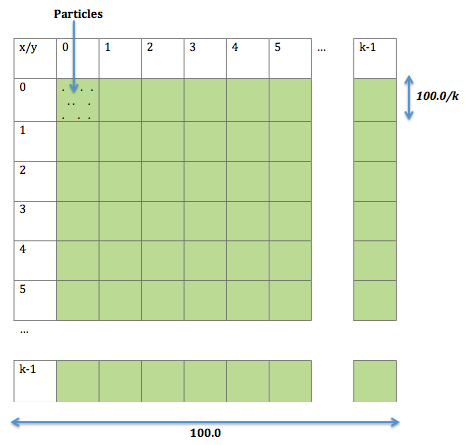
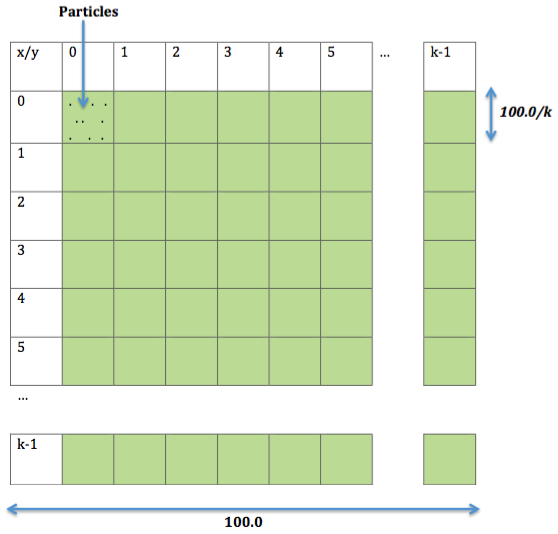
new release download.html updated

diff --git a/content/exercises/particle.html b/content/exercises/particle.html
@@ -8,7 +8,59 @@ downloadc: download
 toolsc: tools 
 helpc: help
 ---
-  <link rel="stylesheet" type="text/css" href="TutorialStyle.css">
+  <link rel="stylesheet" type="text/css" href="../../tutorial/TutorialStyle.css">
 
 <h1>Chare Arrays: Particle Exercise</h1>
+  
+	<!-- Figure -->
+  <table class="StandardFigure" align=right border=0>
+   <tr><td align=center valign=middle>
+    <a href="../images/particlescode.png">
+     <img class="StandardFigure" src="../images/particlescode.png" border=0 width=375>
+    </a>
+   </td></tr>
+   <tr><td align=center valign=middle>
+    <b>Figure 1</b>
+   </td></tr>
+  </table>
+	
+<h2>Random Migrating Particles</h2>
 
+<p>For this exercise, you will write code that simulates a set of particles moving
+	randomly in a 2-dimensional space within a bounding box. The coordinates of the
+	overall simulation box are between 0.0 and 100.0 along each dimension. The particles
+	are divided among chares based on their coordinates. The chares should be organized
+	in a 2-dimensional array of chares (using a chare array) of size <span lang="latex">k \times k</span>. So, each
+	chare owns a bounding box of its own with size <span lang="latex">100.0/k</span>. The particles in each chare
+	can be stored as a vector.</p>
+	
+<p>Your program should generate <i>n</i> particles per chare during construction with a
+		random (but valid, i.e. within the chare) position for particles. Your program
+		should accept the number of particles per cell <i>n</i>, and <i>k</i> as command line parameters
+		in that sequence.</p>
+		
+<p><u>Expected Output</u>: Your program should calculate and print to screen the maximum and
+	total number of particles every 10 iterations. Additionally, the simulation should
+	not be delayed by this calculation (i.e. you should use reductions).</p>
+
+<p>For testing your program, you can use 10000 (=<i>n</i>) particles per chare, simulated over 100 steps
+	and a chare array of size <span lang="latex">16 \times 16</span> (<i>k</i>=16).  Experiment with different number of particles and
+	chare array sizes.</p>
+
+<p><u>Note</u>: There might be multiple particles having the same <i>x</i> and <i>y</i> coordinates, especially
+	if you increase the density of each cell. You do not need to handle this case separately;
+	it is a valid case assumption.</p>
+
+<ul>
+	<li>The pseudocode for the overall algorithm is:</li>
+	<code>for(iteration=0; iteration&lt;ITERATION; iteration++){</code>
+		<ul>
+			<li>For each of the particles that belong to my chare: change its <i>x</i> and <i>y</i> coordinate by a small random amount.</li>
+			<li>Move all the particles that do not belong to a chare's bounding box to their correct homes. Since the movement is small, this will mean communication to the eight near neighbor chares. Some of these messages may contain no particles.</li>
+			<li><code>if(iteration%10 == 0)</code></li>
+			<ul>
+				<li>Do reductions to calculate average and max number of particles</li>
+			</ul>
+		</ul>
+	<code>}</code>
+</ul>

diff --git a/content/exercises/arraysdesign.html b/content/exercises/arraysdesign.html
@@ -8,7 +8,44 @@ downloadc: download
 toolsc: tools 
 helpc: help
 ---
-  <link rel="stylesheet" type="text/css" href="TutorialStyle.css">
+  <link rel="stylesheet" type="text/css" href="../../tutorial/TutorialStyle.css">
 
 <h1>Chare Arrays: Design Exercise</h1>
 
+<h2> Data Balancing:</h2>
+
+<!--\comment{
+I have a design problem for you. I want you to run your solution by me
+(.ci file and pseudocode, for example) before implementing it. Or even
+just the idea for the algorithm:
+} -->
+<p>Assume you have a 1D chare array
+A. Each chare (say A[i]) in it holds a vector of numbers. The size of
+this vector is different on different chares (say <i>size<sub>i</sub></i> on
+A[i]). Your task is to equalize the load on all processors by
+exchanging the numbers. It is not necessary to do minimal data
+movement, but it is desirable. The balance at the end needs to be
+almost exact. If there are a total of N numbers, and v chares, there
+should be between floor (N/v): ceil(N/v) items on each chare. Note
+that the only way to send information to another chare is by sending
+an (entry) method invocation to it.</p>
+
+<p>There are many distinct algorithms possible. Sketch the
+alternatives without coding them, and write cost estimates for them. 
+Keep in mind that the simplest (i.e. approximate) cost model in
+Charm++: entry methods invocation's cost  <i><span lang="latex">\alpha + n . {\beta}</span></i>, where
+<i>&alpha;</i> is a fixed cost, and <i>&beta;</i> is a per-byte cost. For the sake of
+intuition, you may assume <i>&alpha;</i> is about a thousand times larger than
+<i>&beta;</i>, say a microsecond vs a nanosecond. 
+Reductions and broadcasts of size <i>N</i> data on <i>P</i> processors cost <i><span lang="latex">\alpha log (P) +
+N \beta</i>.
+Keep in mind that many
+(but not all)
+of the algorithms for this problem have two phases: first phase to identify who
+should send how many numbers to whom, and second to actually do the
+data exchange. Make sure to write your time estimates for both phases.
+Compare two of the interesting algorithms in terms of cost, performance
+tradeoffs if any (e.g. is each algorithm better in different
+scenarios), scalability and coding complexity. 
+By scalability, here, we mean how well the algorithm behaves with a
+large number of chares and/or a large number of physical processors.</p>

diff --git a/content/exercises/oddevensort.html b/content/exercises/oddevensort.html
@@ -8,7 +8,10 @@ downloadc: download
 toolsc: tools 
 helpc: help
 ---
-  <link rel="stylesheet" type="text/css" href="TutorialStyle.css">
+  <link rel="stylesheet" type="text/css" href="../../tutorial/TutorialStyle.css">
 
 <h1>Chare Arrays: Odd-Even Sort Exercise</h1>
 
+<p>A mainchare has a chare array of size N. Each chare in the array generates its own random number. The array must be sorted in N steps, where at each step, each chare may communicate with at most one of its neighbors (i.e. on an 'odd' step adjacent chares are paired in one fashion, and on an 'even' step the pairing is switched). No barriers are allowed, and there is only one reduction, at the end, which checks that the elements have been properly sorted.</p>
+ 
+<p>N is a command line parameter.</p>

diff --git a/content/exercises.html b/content/exercises.html
@@ -8,6 +8,7 @@ downloadc: download
 toolsc: tools 
 helpc: help
 ---
+  <link rel="stylesheet" type="text/css" href="../tutorial/TutorialStyle.css">
 <body>
 <div id="container">
 	
@@ -29,13 +30,13 @@ helpc: help
 		<ol>
 			<li>Data balancing</li>
 				<ol>
-					<li>Design exercise</li>
+					<li><a href="arraysdesign">Design exercise</a></li>
 					<li>Method 1</li>
 					<li>Method 2</li>
 					<li>Method 3</li>
 				</ol>
-			<li>Odd-even sort</li>
-			<li>Particle exercise</li>
+			<li><a href="oddevensort">Odd-even sort</a></li>
+			<li><a href="particle">Particle exercise</a></li>
 		</ol>
 	<li><h2>Load Balancing</h2></li>
 		<ol>

diff --git a/layouts/homepage.html b/layouts/homepage.html
@@ -21,7 +21,9 @@
     <link href="http://charm.cs.illinois.edu/codemirror/theme/lesser-dark.css" rel="stylesheet" type="text/css"/>
     <script src="/assets/prettify.js" type="text/javascript"></script>
     <script src="https://maxcdn.bootstrapcdn.com/bootstrap/3.2.0/js/bootstrap.min.js"></script>
-
+		<!-- for equations from LaTeX to appear correctly-->
+		<script type="text/javascript" src="http://latex.codecogs.com/latexit.js"></script>
+		
     <!-- you don't need to keep this, but it's cool for stats! -->
     <meta name="generator" content="nanoc <%= Nanoc::VERSION %>"> 
   </head>

diff --git a/content/download.html b/content/download.html
@@ -13,7 +13,7 @@ helpc: help
   <h1>Downloads</h1>
   <h2 id='charm_source'>Charm++</h2>
   
-  <p>Latest release version: <a href="http://charm.cs.illinois.edu/distrib/charm-6.7.1.tar.gz">Charm++ v6.7.1 (tar.gz)</a></p>
+  <p>Latest release version: <a href="https://charm.cs.illinois.edu/distrib/charm-6.8.0.tar.bz2">Charm++ v6.8.0 (tar.gz)</a></p>
   <p>Latest dev version: <a href="http://charm.cs.illinois.edu/autobuild/cur/charm_src.tar.gz">Nightly Snapshot (tar.gz)</a></p>
   
   <p>The latest development version of Charm++ can be downloaded directly from our

diff --git a/layouts/default.html b/layouts/default.html
@@ -21,7 +21,9 @@
 		<script src="/assets/prettify.js" type="text/javascript">
 		</script>
 		<script src="https://maxcdn.bootstrapcdn.com/bootstrap/3.2.0/js/bootstrap.min.js"></script>
-
+		<!-- for equations from LaTeX to appear correctly-->
+		<script type="text/javascript" src="http://latex.codecogs.com/latexit.js"></script>
+		
     <!-- you don't need to keep this, but it's cool for stats! -->
     <meta name="generator" content="nanoc <%= Nanoc::VERSION %>"> 
   </head>

diff --git a/content/exercises/primality.html b/content/exercises/primality.html
@@ -8,7 +8,7 @@ downloadc: download
 toolsc: tools 
 helpc: help
 ---
-  <link rel="stylesheet" type="text/css" href="TutorialStyle.css">
+  <link rel="stylesheet" type="text/css" href="../../tutorial/TutorialStyle.css">
 
 <h1>Basic Chares: Primality Testing Exercise</h1>
 <center><em>(testing with a chare for each number being tested)</em></center>

diff --git a/content/exercises/arraysmethod1.html b/content/exercises/arraysmethod1.html
@@ -8,7 +8,7 @@ downloadc: download
 toolsc: tools 
 helpc: help
 ---
-  <link rel="stylesheet" type="text/css" href="TutorialStyle.css">
+  <link rel="stylesheet" type="text/css" href="../../tutorial/TutorialStyle.css">
 
 <h1>Chare Arrays: Method 1 Exercise</h1>
 

diff --git a/content/exercises/arraysmethod2.html b/content/exercises/arraysmethod2.html
@@ -8,7 +8,7 @@ downloadc: download
 toolsc: tools 
 helpc: help
 ---
-  <link rel="stylesheet" type="text/css" href="TutorialStyle.css">
+  <link rel="stylesheet" type="text/css" href="../../tutorial/TutorialStyle.css">
 
 <h1>Chare Arrays: Method 2 Exercise</h1>
 

diff --git a/content/exercises/arraysmethod3.html b/content/exercises/arraysmethod3.html
@@ -8,7 +8,7 @@ downloadc: download
 toolsc: tools 
 helpc: help
 ---
-  <link rel="stylesheet" type="text/css" href="TutorialStyle.css">
+  <link rel="stylesheet" type="text/css" href="../../tutorial/TutorialStyle.css">
 
 <h1>Chare Arrays: Method 3 Exercise</h1>
 
